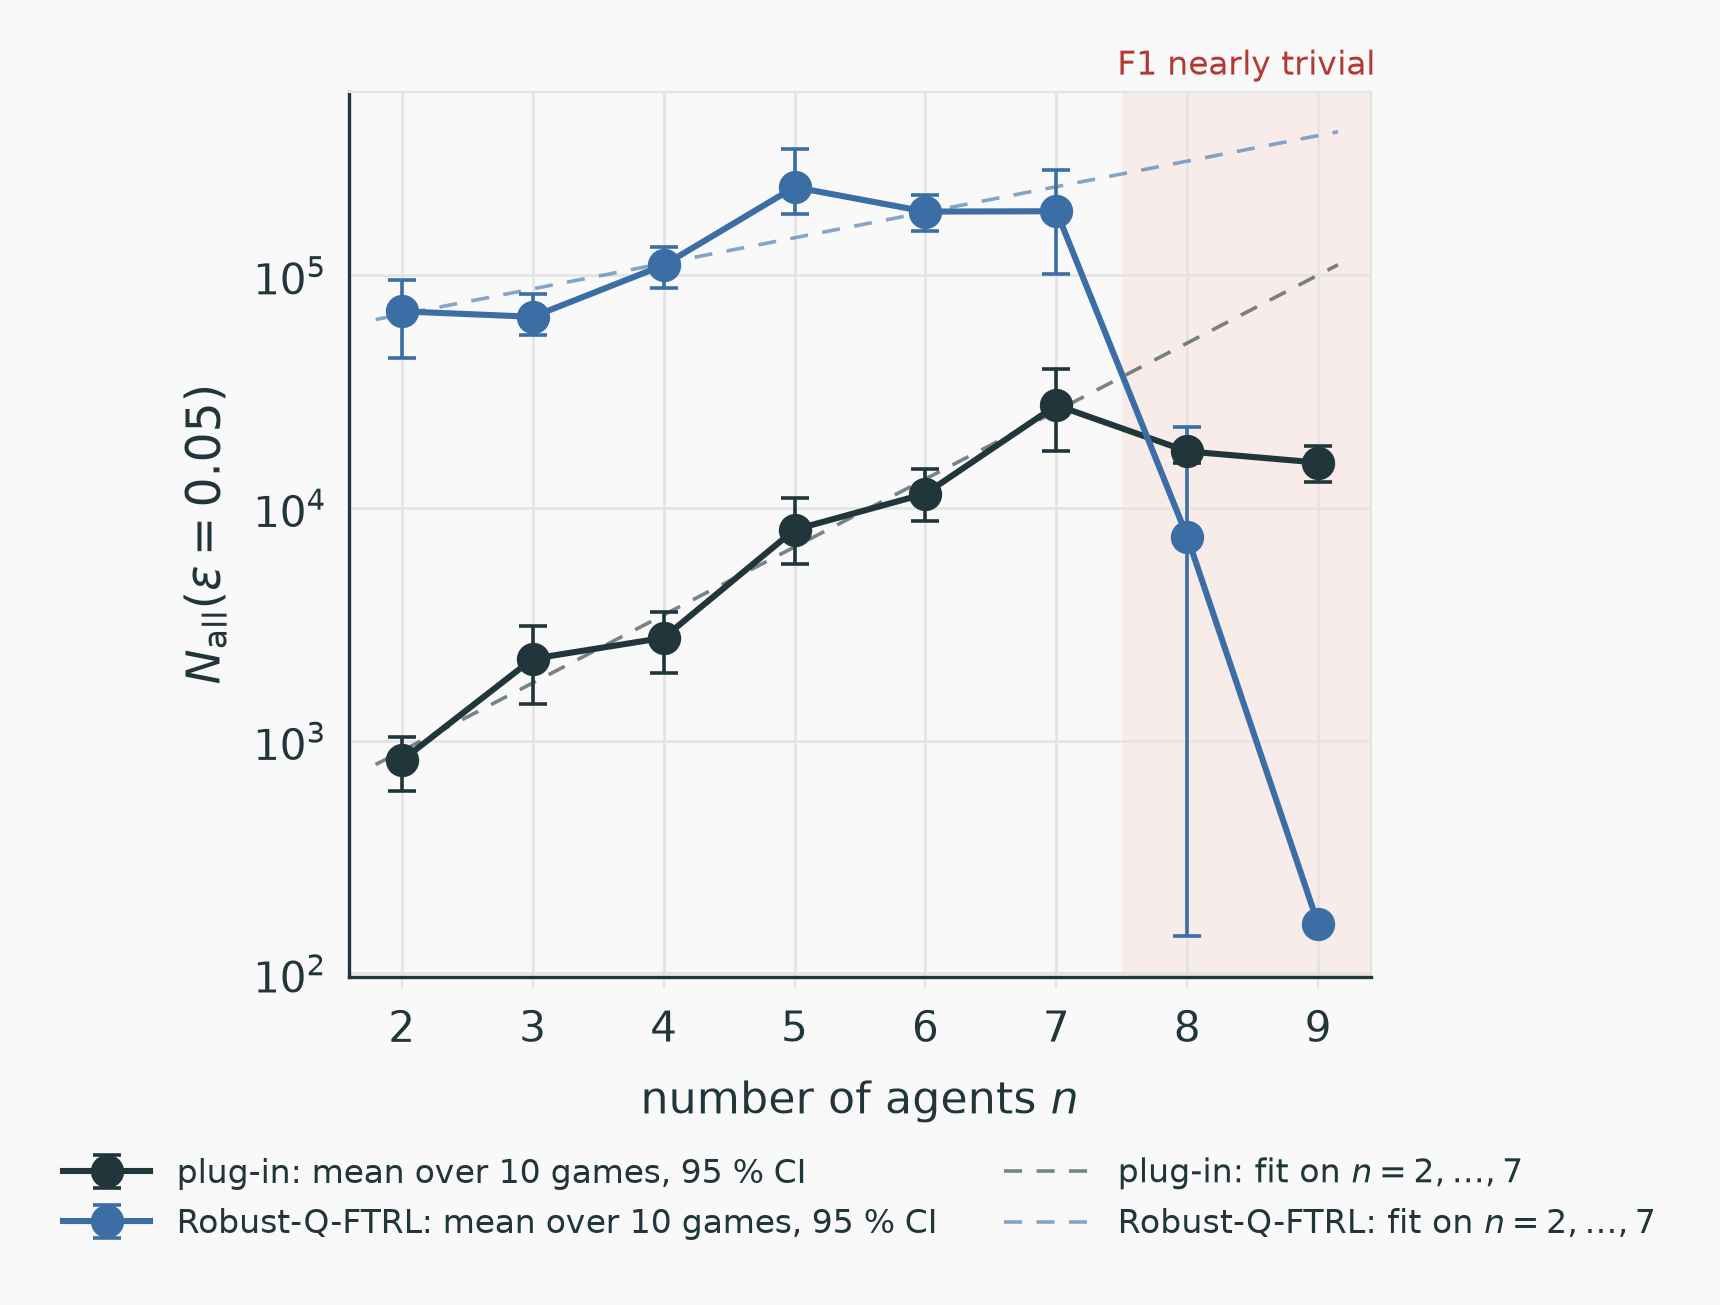
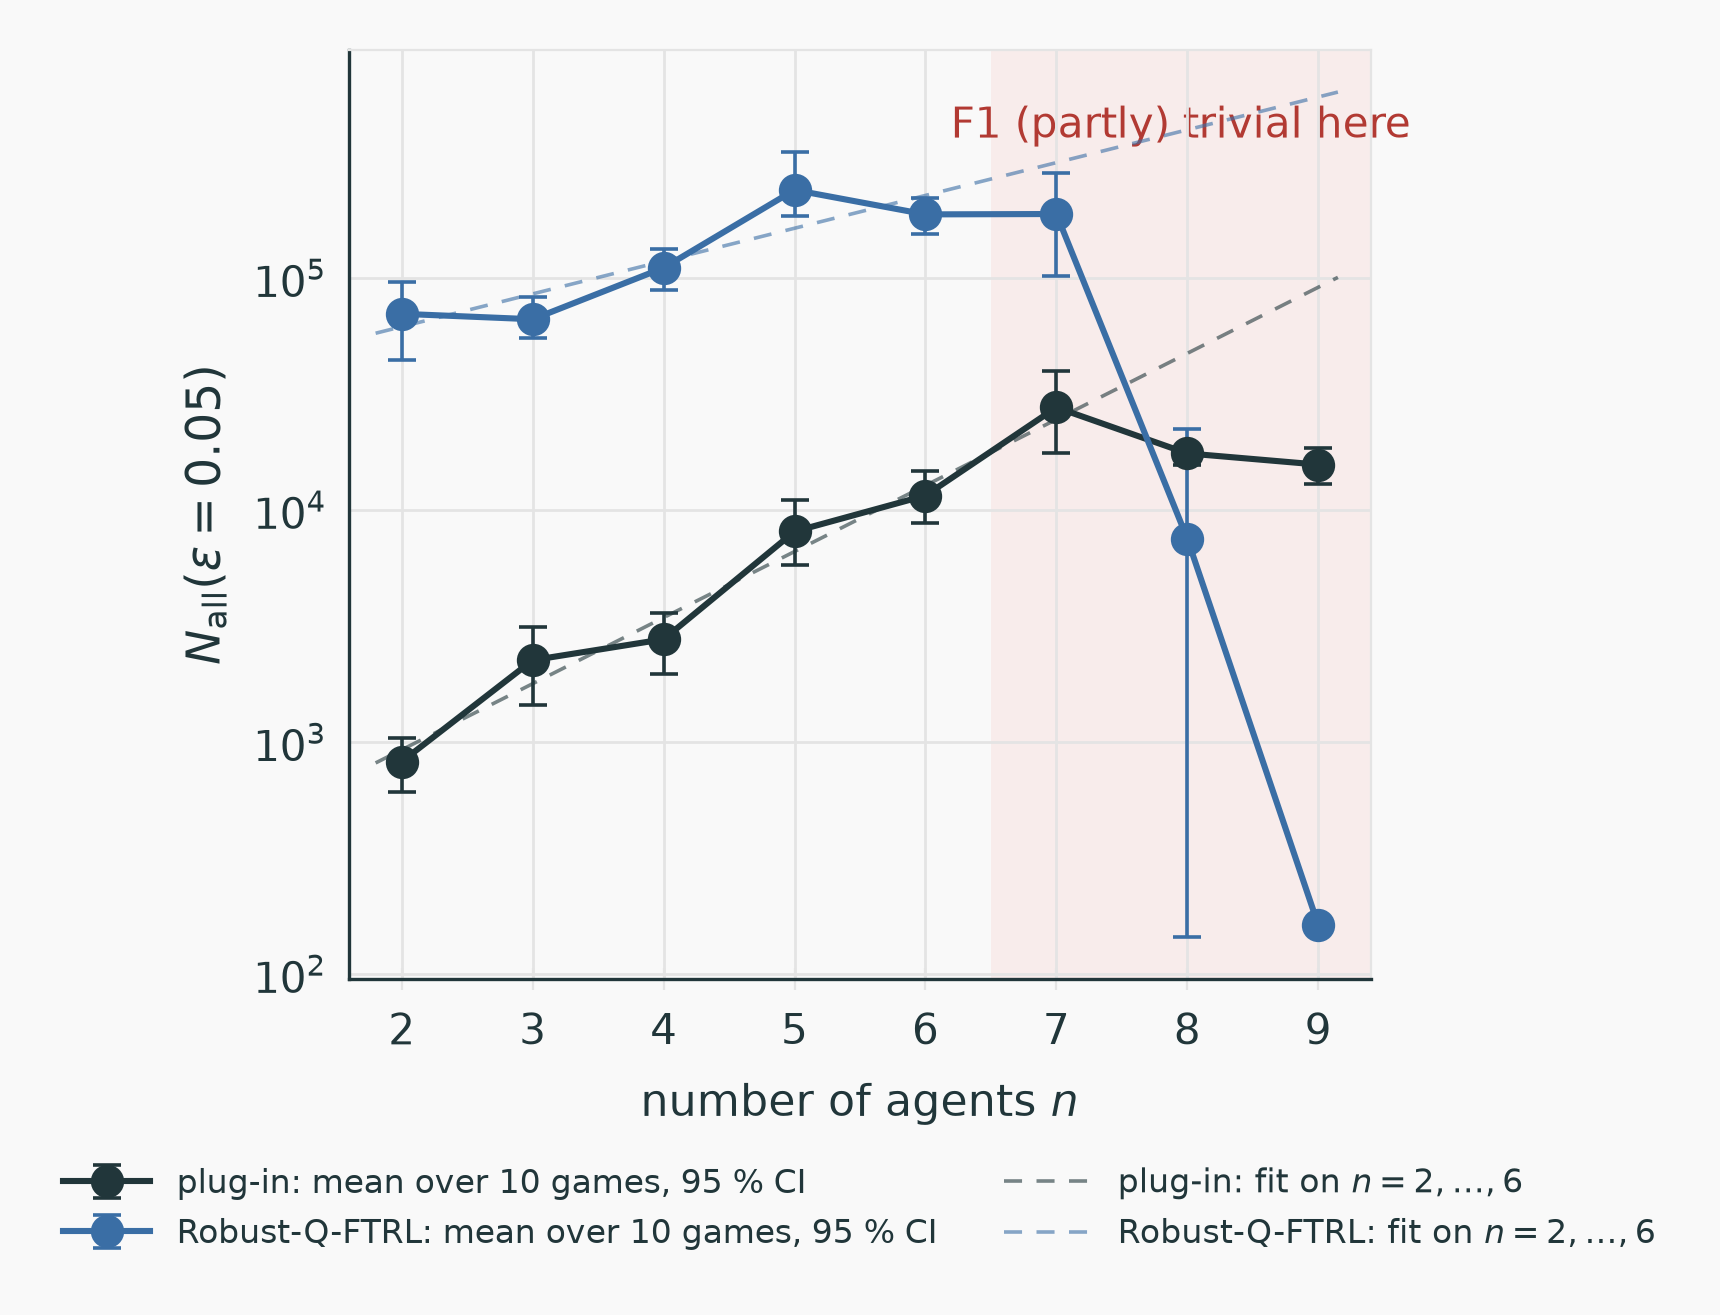
update docs

diff --git a/experiments/analyze_scaling.py b/experiments/analyze_scaling.py
@@ -16,7 +16,7 @@ recomputed (``--boot`` resamples, fixed seed). An upper end of ``inf`` means tha
 
 The plot (``--plot``) shows the mean of N_all over the games per n with a 95 % bootstrap
 interval (games resampled), a semi-log fit on the informative n (dashed) and the region where
-F1 is nearly trivial (shaded; see ``plot``). Log scale on the y axis only.
+F1 is (partly) trivial (shaded; see ``plot``). Log scale on the y axis only.
 
 Fits, on the geometric mean over instances:
 
@@ -167,15 +167,16 @@ def mean_ci(values: np.ndarray, n_boot: int, rng: np.random.Generator) -> tuple[
 
 
 def trivial_start(summary: pd.DataFrame) -> float | None:
-    """First n at which most instances are solved by Robust-Q-FTRL with K = 1 (uniform policy).
+    """First n at which any instance is solved by Robust-Q-FTRL with K = 1 (uniform policy).
+
+    Below it is the informative range used in the docs; from it on N_all partly measures the game, not learning.
 
     Needs Robust-Q-FTRL runs with K = 1; returns None otherwise.
     """
     s = summary[summary["method"] == "robust_q_ftrl"]
     if s.empty or (s["solved_by_K1"] == 0).all():
         return None
-    total = s["solved"].str.split("/").str[1].astype(int)
-    trivial = s.loc[s["solved_by_K1"].astype(int) > total / 2, "n"]
+    trivial = s.loc[s["solved_by_K1"].astype(int) > 0, "n"]
     return float(trivial.min()) if len(trivial) else None
 
 
@@ -188,7 +189,7 @@ def plot(
     - The fit (dashed) is ``log N_all = a + b n`` on the n in ``fit_n``; by default all n below
       the trivial region. It is drawn over the whole range of n.
     - The trivial region (shaded) starts at ``trivial_from``; by default at the first n where
-      most instances are solved with K = 1 (see ``trivial_start``), none if that is unknown.
+      any instance is solved with K = 1 (see ``trivial_start``), none if that is unknown.
     """
     import matplotlib
     matplotlib.use("Agg")
@@ -210,7 +211,7 @@ def plot(
         ax.axvspan(start - 0.5, ns[-1] + 0.4, color=SHADE, zorder=0, lw=0)
         narrow = ns[-1] + 0.4 - (start - 0.5) < 2.5         # too narrow for the label: put it above the axes
         ax.text((start - 0.5 + ns[-1] + 0.4) / 2, 1.01 if narrow else 0.06 if single else 0.94,
-                "F1 nearly trivial" if narrow else "F1 nearly trivial here", transform=ax.get_xaxis_transform(),
+                "F1 (partly) trivial" if narrow else "F1 (partly) trivial here", transform=ax.get_xaxis_transform(),
                 ha="center", va="bottom" if narrow or single else "top", color=SHADE_TEXT,
                 fontsize=12 if narrow else 15, zorder=1)
 
@@ -280,7 +281,7 @@ def main(argv: list[str] | None = None) -> None:
     ap.add_argument("--methods", nargs="+", choices=list(BUDGET), help="methods to plot (default: all in the CSVs)")
     ap.add_argument("--fit-n", nargs="+", type=int, help="n used for the dashed fit (default: all n below the trivial region)")
     ap.add_argument("--trivial-from", type=float,
-                    help="first n of the shaded trivial region (default: first n where most instances are solved with K = 1)")
+                    help="first n of the shaded trivial region (default: first n where any instance is solved with K = 1)")
     ap.add_argument("--boot", type=int, default=2000, help="bootstrap resamples for the CI of N_lowest")
     args = ap.parse_args(argv)
 

diff --git a/docs/4_experiments/scaling_in_n.md b/docs/4_experiments/scaling_in_n.md
@@ -133,6 +133,23 @@ All Robust-Q-FTRL budgets at the median have N = 1 except n = 2, ε = 0.05.
 
 For n = 2–8 these are identical to the earlier sweeps of 8, 14 and 19 Nov.
 
+### Plots
+
+N_all(ε) against n on a log scale. Points are the arithmetic mean over the 10 instances, with
+a 95 % bootstrap interval (instances resampled). They are somewhat higher than the geometric
+means in the tables, most visibly where a few instances need a much larger budget. The dashed
+lines are semi-log fits on the informative range. The shaded region starts at the first n where
+any instance is already solved at K = 1, the rows in *italics* in the tables.
+
+| | ε = 0.1 | ε = 0.05 |
+|---|---|---|
+| **Setting A** (β = 1, w = 0.5) | ![N_all, setting A, ε = 0.1](../../results/scaling_n/20261119-202618/n_all_f1_eps0.1.png) | ![N_all, setting A, ε = 0.05](../../results/scaling_n/20261119-202618/n_all_f1_eps0.05.png) |
+| **Setting B** (β = 0.1, w = 0) | ![N_all, setting B, ε = 0.1](../../results/scaling_n/20261119-213140/n_all_f1_eps0.1.png) | ![N_all, setting B, ε = 0.05](../../results/scaling_n/20261119-213140/n_all_f1_eps0.05.png) |
+
+In every panel plug-in (dark) rises as a straight line on the log scale, while Robust-Q-FTRL
+(blue) rises more slowly and stays above it in the informative range. In the shaded region
+Robust-Q-FTRL drops to the cost of the uniform policy, which is not learning.
+
 ### Growth rates
 
 The cost of each method splits into a fixed structural part and a per-agent budget:

diff --git a/docs/4_experiments/c_alpha_floor.md b/docs/4_experiments/c_alpha_floor.md
@@ -40,6 +40,12 @@ Wall time 1.5 min with 8 processes (12 min compute; about 9.5 s per run at K = 3
 Share of instances with floor ≤ 0.05: c_α = 0.5 and 1 at every K; c_α = 4 from K = 4000;
 c_α = 24 only from K = 16000.
 
+![Solver floor versus K for each c_α](../../results/c_alpha_floor/20261120-082743/floor.png)
+
+Mean floor over the 10 instances (the values in the table) with a 95 % bootstrap interval,
+both axes logarithmic. Every c_α falls at about the same rate in K; c_α = 24 is shifted up by
+a factor 4–10 and crosses ε = 0.05 only between K = 8000 and 16000.
+
 ### Output weights α^K_k (no game needed)
 
 | c_α | K | effective number of plans (1 / Σ w²) | weight on k ≤ K/2 | η_K |
